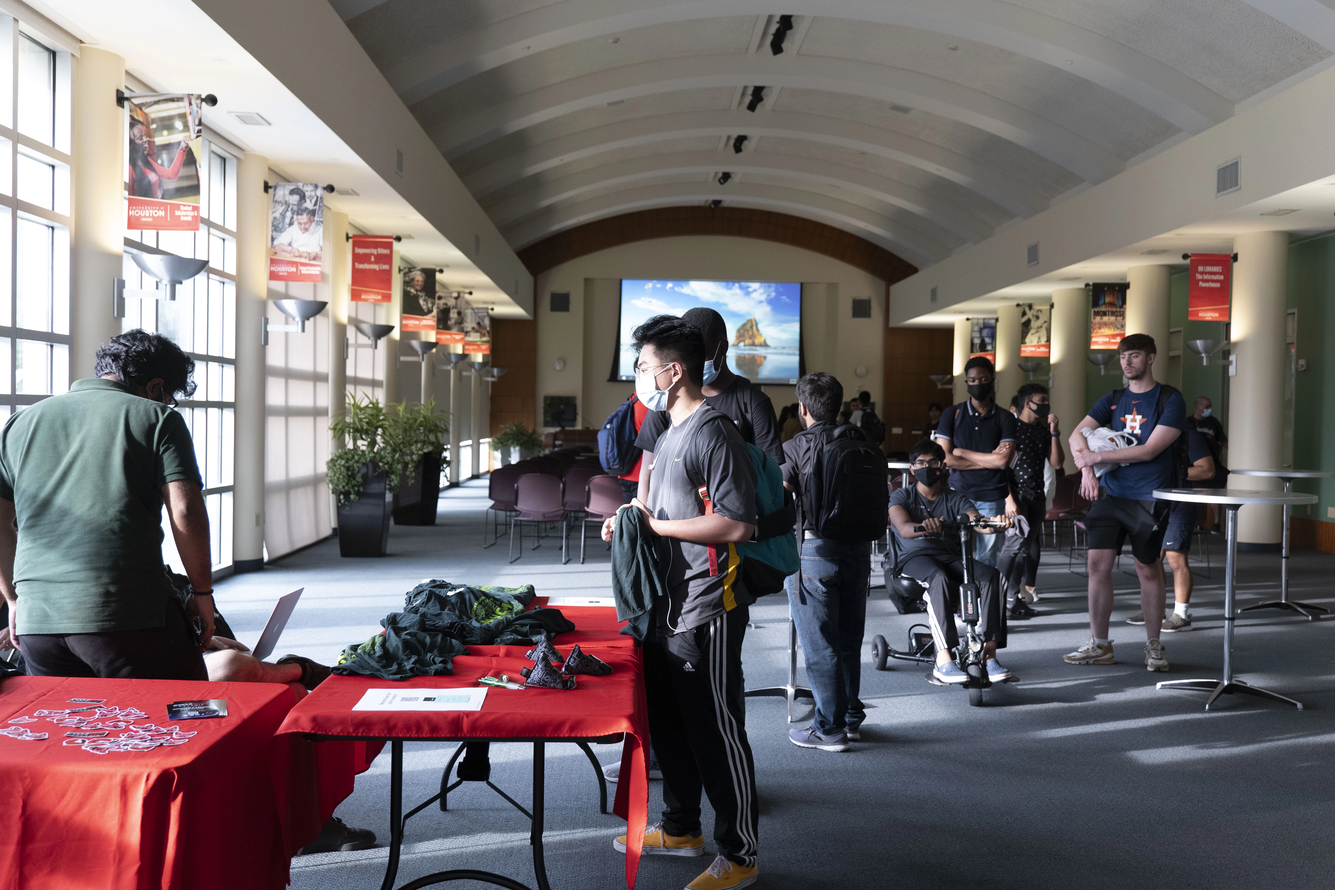
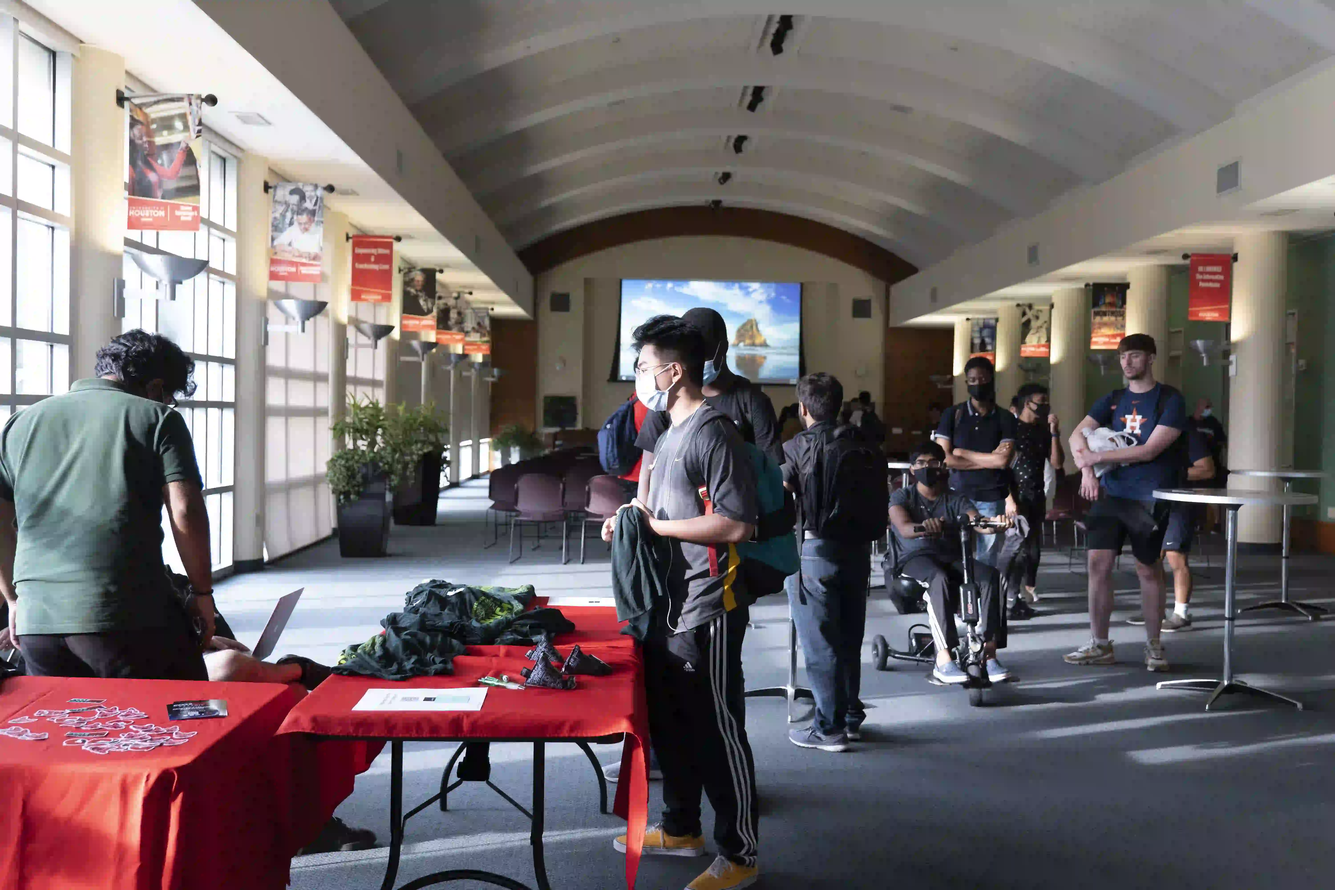
reduce image size and remove duplicates

diff --git a/src/data/gallery.js b/src/data/gallery.js
@@ -57,7 +57,7 @@ const gallery = [
 		image: FirstGeneralMeeting21_1,
 		location: 'Houston, TX',
 		date: '09/02/2021',
-		pictures: [FirstGeneralMeeting21_1, FirstGeneralMeeting21_2],
+		pictures: [FirstGeneralMeeting21_1],
 	},
 	{
 		id: 3,
@@ -137,7 +137,7 @@ const gallery = [
 		image: InterviewWS0,
 		location: 'Houston, TX',
 		date: '11/21/2020',
-		pictures: [InterviewWS0, InterviewWS1, InterviewWS1],
+		pictures: [InterviewWS0, InterviewWS1],
 	},
 	{
 		id: 11,
